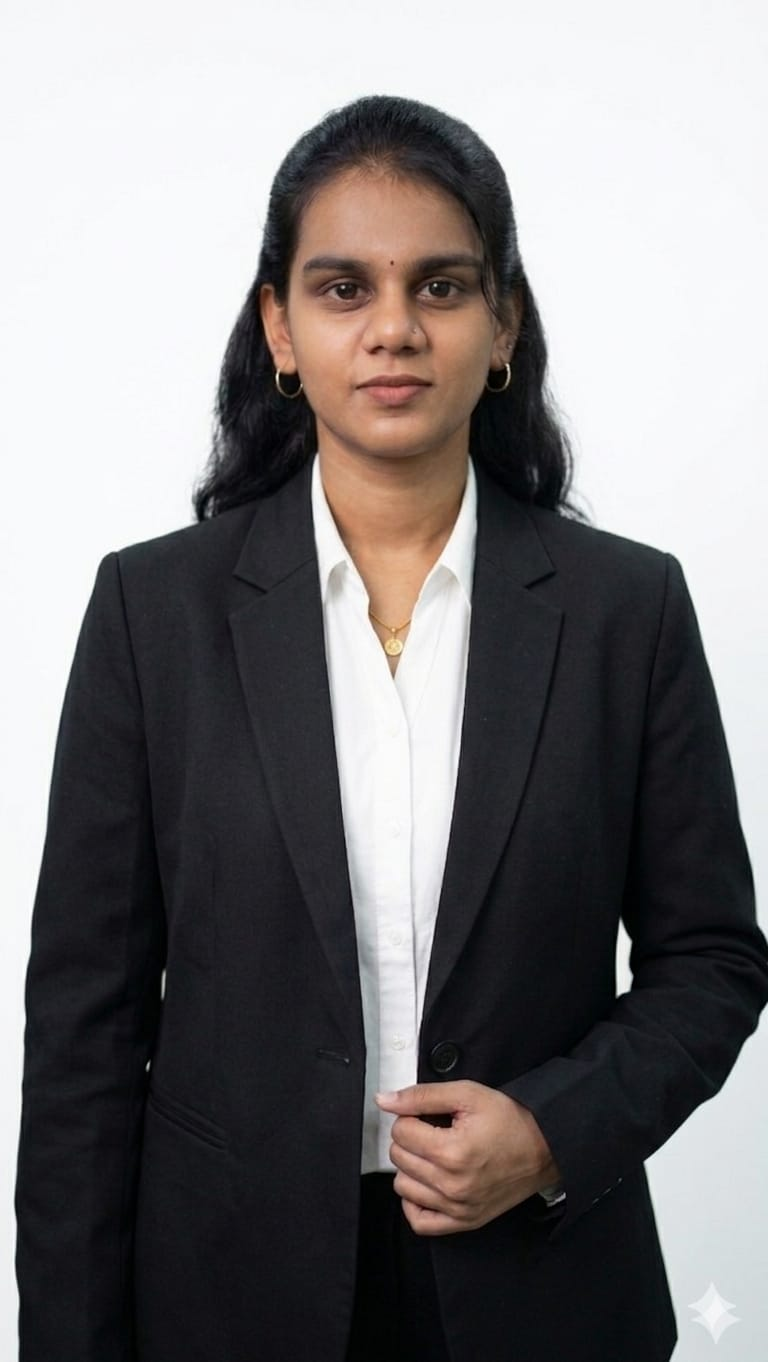
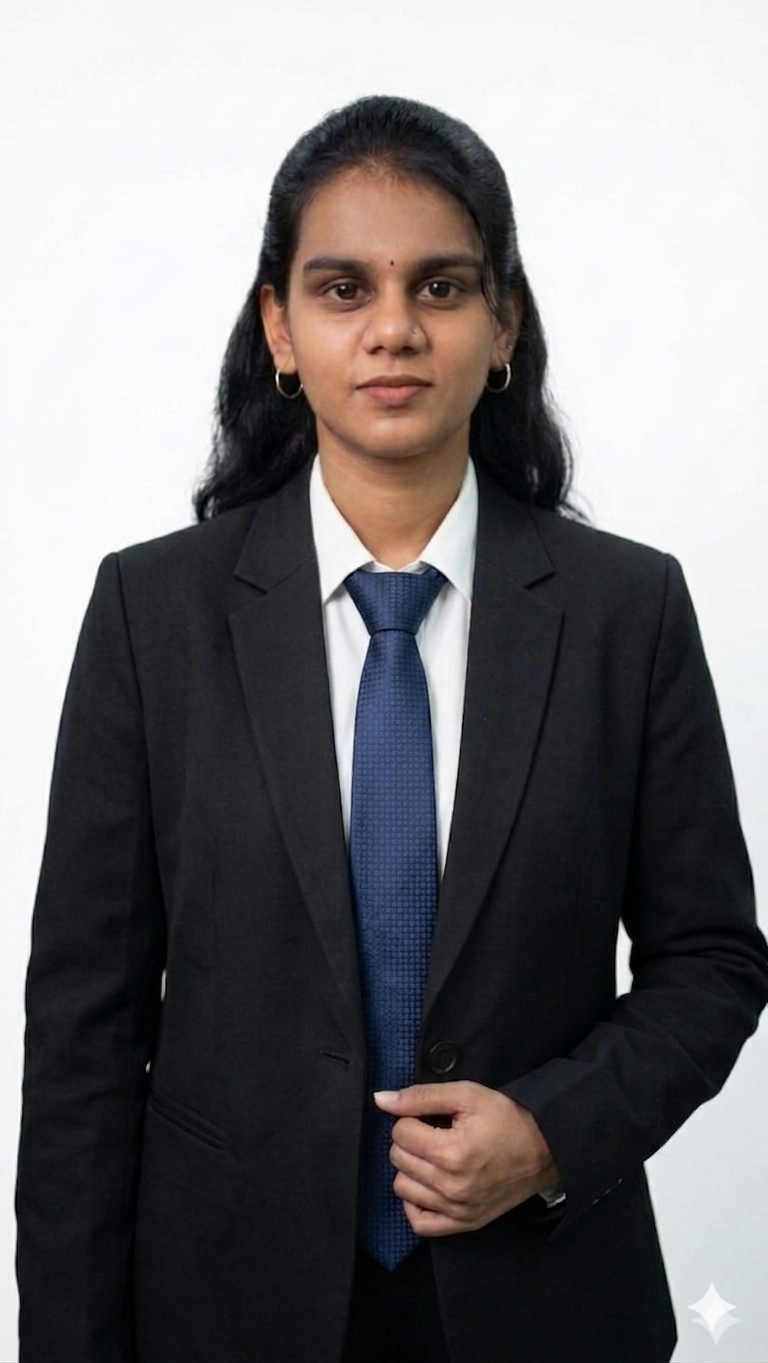
Added more projects

Changed region(s): [[0.4062, 0.3392, 0.625, 0.9559]]

diff --git a/index.html b/index.html
@@ -207,37 +207,7 @@
           <h2>Projects</h2>
 
           <div class="gallery-container">
-            <div class="slider">
-              <div
-                class="slide"
-                data-title="Obstacle Avoiding Robot"
-                data-description="An autonomous robot that detects and avoids obstacles using Arduino Uno and ultrasonic sensors."
-                data-github="https://github.com/yourusername/obstacle-avoiding-robot"
-              >
-                <img src="Robot.png" alt="Obstacle Avoiding Robot" />
-                <h3>Obstacle Avoiding Robot</h3>
-              </div>
-
-              <div
-                class="slide"
-                data-title="Calorie Meter"
-                data-description="A Flask-based web app that estimates calories based on user input. Built using HTML, CSS, and Flask."
-                data-github="https://github.com/yourusername/calorie-meter"
-              >
-                <img src="Calorie meter.png" alt="Calorie Meter" />
-                <h3>Calorie Meter</h3>
-              </div>
-
-              <div
-                class="slide"
-                data-title="To-Do List"
-                data-description="A simple task management app with Flask backend and clean UI built using HTML and CSS."
-                data-github="https://github.com/yourusername/todo-list"
-              >
-                <img src="Todolist.png" alt="To-Do List" />
-                <h3>To-Do List</h3>
-              </div>
-            </div>
+            <div class="slider"></div>
 
             <div class="nav-buttons">
               <button class="prev">&#10094;</button>
@@ -256,38 +226,13 @@
             </div>
           </div>
 
-          <!-- Project Grid -->
-          <div class="project-grid">
-            <div
-              class="grid-item"
-              data-title="Obstacle Avoiding Robot"
-              data-description="An autonomous robot that detects and avoids obstacles using Arduino Uno and ultrasonic sensors."
-              data-link="https://github.com/Akalya-s6282/tink-her-hack-3-temp"
-            >
-              <img src="Robot.png" alt="Obstacle Avoiding Robot" />
-              <p>Obstacle Avoiding Robot</p>
-            </div>
+          <!-- Main Projects Grid -->
+          <h3 class="projects-subheading">Main Projects</h3>
+          <div class="project-grid"></div>
 
-            <div
-              class="grid-item"
-              data-title="Calorie Meter"
-              data-description="A Flask-based web app that estimates calories based on user input. Built using HTML, CSS, and Flask."
-              data-link="https://github.com/Akalya-s6282/tink-her-hack-3-temp"
-            >
-              <img src="Calorie meter.png" alt="Calorie Meter" />
-              <p>Calorie Meter</p>
-            </div>
-
-            <div
-              class="grid-item"
-              data-title="To-Do List"
-              data-description="A simple task management app with Flask backend and clean UI built using HTML and CSS."
-              data-link="https://github.com/Akalya-s6282/To-do-list"
-            >
-              <img src="Todolist.png" alt="To-Do List" />
-              <p>To-Do List</p>
-            </div>
-          </div>
+          <!-- Fun Projects Grid -->
+            <h3 class="projects-subheading">Fun Projects</h3>
+            <div class="fun-project-grid"></div>
         </section>
 
         <!-- Certificates Section -->
@@ -315,70 +260,7 @@
           </div>
 
           <!-- Certificates Grid -->
-          <div
-            class="certificate-card"
-            data-title="Python Certification"
-            data-issuer="IBM SkillBuild"
-            data-file-id="1s3GCwqDeVQ3Wvx6pU3Hpu-yrEW4xwqgp"
-          >
-            <div class="cert-content">
-              <h3>Python Certification</h3>
-              <p>IBM SkillBuild</p>
-            </div>
-            <a href="#" class="view-btn">></a>
-          </div>
-
-          <div
-            class="certificate-card"
-            data-title="College Level Add-on Course: PCB"
-            data-issuer="Albertian Institute of Science And Technology"
-            data-file-id="1JQ17O8yKliEXO0AyBA6_AX6_9aTQYq-0"
-          >
-            <div class="cert-content">
-              <h3>PCB Add-on Course</h3>
-              <p>Albertian Institute of Science and Technology</p>
-            </div>
-            <a href="#" class="view-btn">></a>
-          </div>
-
-          <div
-            class="certificate-card"
-            data-title="College Level Add-on Course: MATLAB"
-            data-issuer="Albertian Institute of Science And Technology"
-            data-file-id="1FsQ__JnEg7NMrGZK3paewXQl1TcAPuIY"
-          >
-            <div class="cert-content">
-              <h3>MATLAB Add-on Course</h3>
-              <p>Albertian Institute of Science and Technology</p>
-            </div>
-            <a href="#" class="view-btn">></a>
-          </div>
-
-          <div
-            class="certificate-card"
-            data-title="Internship at Retechnox Technologies LLP"
-            data-issuer="Sinro Robotics"
-            data-file-id="1KADtrHLeU22stDiKfLIVgaW2DTGGJ5ep"
-          >
-            <div class="cert-content">
-              <h3>AI and ML Internship</h3>
-              <p>Retechnox Technologies</p>
-            </div>
-            <a href="#" class="view-btn">></a>
-          </div>
-
-          <div
-            class="certificate-card"
-            data-title="Internship at Sinro Robotics IoT"
-            data-issuer="Sinro Robotics"
-            data-file-id="1HMQHxcLs08iObfNFYnwgMkGSbcOabSD4"
-          >
-            <div class="cert-content">
-              <h3>IoT Internship</h3>
-              <p>Sinro Robotics</p>
-            </div>
-            <a href="#" class="view-btn">></a>
-          </div>
+          <div id="certificatesGrid" class="certificates-grid"></div>
         </section>
 
         <!-- Contact Section -->

diff --git a/script.js b/script.js
@@ -11,6 +11,7 @@ document.addEventListener("DOMContentLoaded", () => {
   // Slider
   // Data source (change to an external raw URL if you host projects elsewhere)
   const DATA_URL = "data/projects.json";
+  const CERT_DATA_URL = "data/certificates.json";
 
   // Project Modal elements (used after rendering)
   const projectModal = document.getElementById("projectModal");
@@ -40,9 +41,14 @@ document.addEventListener("DOMContentLoaded", () => {
 
       const sliderEl = document.querySelector(".slider");
       const gridEl = document.querySelector(".project-grid");
+      const funGridEl = document.querySelector(".fun-project-grid");
 
-      // Render slides
-      sliderEl.innerHTML = projects
+      const featured = projects.mainProjects || [];
+      const funProjects = projects.funProjects || [];
+      const allProjects = [...featured, ...funProjects];
+
+      // Render slides for every project (main + fun)
+      sliderEl.innerHTML = allProjects
         .map(
           p => `
         <div class="slide" data-title="${escapeHtml(p.title)}" data-description="${escapeHtml(
@@ -54,8 +60,8 @@ document.addEventListener("DOMContentLoaded", () => {
         )
         .join("");
 
-      // Render grid
-      gridEl.innerHTML = projects
+      // Render main project grid
+      gridEl.innerHTML = featured
         .map(
           p => `
         <div class="grid-item" data-title="${escapeHtml(p.title)}" data-description="${escapeHtml(
@@ -66,6 +72,21 @@ document.addEventListener("DOMContentLoaded", () => {
         </div>`
         )
         .join("");
+
+      // Render fun project grid
+      funGridEl.innerHTML = funProjects.length
+        ? funProjects
+            .map(
+              p => `
+        <div class="grid-item fun-item" data-title="${escapeHtml(p.title)}" data-description="${escapeHtml(
+                p.description
+              )}" data-link="${escapeHtml(p.link)}">
+          <img src="${escapeHtml(p.image)}" alt="${escapeHtml(p.title)}" />
+          <p>${escapeHtml(p.title)}</p>
+        </div>`
+            )
+            .join("")
+        : `<p class="empty-fun-grid">Add fun projects in data/projects.json under the funProjects section.</p>`;
 
       // After rendering, wire up slider and modal behavior
       const slides = document.querySelectorAll(".slide");
@@ -140,7 +161,51 @@ document.addEventListener("DOMContentLoaded", () => {
   const certLink = document.getElementById("previewCertLink");
   const certIframe = document.getElementById("previewCertIframe");
   const closeCertModal = document.getElementById("closeCertificatePreview");
-  const certCards = document.querySelectorAll(".certificate-card");
+  const certGrid = document.getElementById("certificatesGrid");
+
+  loadCertificates();
+
+  async function loadCertificates() {
+    try {
+      const res = await fetch(CERT_DATA_URL);
+      if (!res.ok) throw new Error(`Failed to load ${CERT_DATA_URL}: ${res.status}`);
+      const data = await res.json();
+
+      certGrid.innerHTML = (data.certificates || [])
+        .map(
+          cert => `
+        <div class="certificate-card" data-title="${escapeHtml(cert.title)}" data-issuer="${escapeHtml(
+            cert.issuer
+          )}" data-file-id="${escapeHtml(cert.fileId)}">
+          <div class="cert-content">
+            <h3>${escapeHtml(cert.title)}</h3>
+            <p>${escapeHtml(cert.issuer)}</p>
+          </div>
+          <a href="#" class="view-btn">></a>
+        </div>`
+        )
+        .join("");
+
+      document.querySelectorAll(".certificate-card").forEach(card => {
+        card.querySelector(".view-btn").addEventListener("click", e => {
+          e.preventDefault();
+          const fileId = card.dataset.fileId;
+          certTitle.textContent = card.dataset.title;
+          certIssuer.textContent = card.dataset.issuer;
+          certIframe.src = `https://drive.google.com/file/d/${fileId}/preview`;
+          certLink.href = `https://drive.google.com/file/d/${fileId}/view?usp=sharing`;
+          certModal.style.display = "block";
+          certModal.scrollIntoView({ behavior: "smooth", block: "start" });
+        });
+      });
+    } catch (err) {
+      console.error("Failed to load certificates:", err);
+    }
+
+    closeCertModal.addEventListener("click", () => {
+      certModal.style.display = "none";
+    });
+  }
 
   // Theme Toggle
   const themeToggle = document.getElementById("themeToggle");
@@ -210,22 +275,6 @@ document.addEventListener("DOMContentLoaded", () => {
     closeMobileNav();
     updateNavVisibility();
   });
-
-
-  // --- CERTIFICATES MODAL ---
-  certCards.forEach(card => {
-    card.querySelector(".view-btn").addEventListener("click", e => {
-      e.preventDefault();
-      const fileId = card.dataset.fileId;
-      certTitle.textContent = card.dataset.title;
-      certIssuer.textContent = card.dataset.issuer;
-      certIframe.src = `https://drive.google.com/file/d/${fileId}/preview`;
-      certLink.href = `https://drive.google.com/file/d/${fileId}/view?usp=sharing`;
-      certModal.style.display = "block";
-      certModal.scrollIntoView({ behavior: "smooth", block: "start" });
-    });
-  });
-  closeCertModal.addEventListener("click", () => { certModal.style.display = "none"; });
 
   // --- CONTACT FORM ---
   document.getElementById("contactForm").addEventListener("submit", e => {

diff --git a/styles/projects.css b/styles/projects.css
@@ -110,12 +110,37 @@
   background: var(--accent-strong);
 }
 
-.project-grid {
+.project-grid,
+.fun-project-grid {
   width: min(980px, 100%);
   margin: 0 auto;
   display: grid;
   grid-template-columns: repeat(auto-fit, minmax(260px, 1fr));
   gap: 18px;
+}
+
+.fun-projects-section {
+  width: min(980px, 100%);
+  margin: 30px auto 0;
+  padding: 22px 20px;
+  border-radius: var(--radius-lg);
+  border: 1px solid var(--border-soft);
+  background: var(--bg-card);
+  box-shadow: var(--box-shadow);
+}
+
+.fun-projects-section h3 {
+  margin: 0 0 10px;
+}
+
+.fun-projects-description {
+  margin: 0 0 18px;
+  color: var(--text-muted);
+}
+
+.empty-fun-grid {
+  margin: 0;
+  color: var(--text-muted);
 }
 
 .grid-item {
@@ -167,7 +192,8 @@
     font-size: 16px;
   }
 
-  .project-grid {
+  .project-grid,
+  .fun-project-grid {
     grid-template-columns: repeat(2, minmax(0, 1fr));
     gap: 10px;
   }
@@ -188,7 +214,8 @@
 }
 
 @media (max-width: 420px) {
-  .project-grid {
+  .project-grid,
+  .fun-project-grid {
     gap: 8px;
   }
 

diff --git a/styles/common.css b/styles/common.css
@@ -85,6 +85,8 @@ a {
   overflow-y: auto;
   padding: 0 18px 42px;
   scroll-behavior: smooth;
+  touch-action: pan-y;
+  -webkit-overflow-scrolling: touch;
 }
 
 .theme-toggle {
